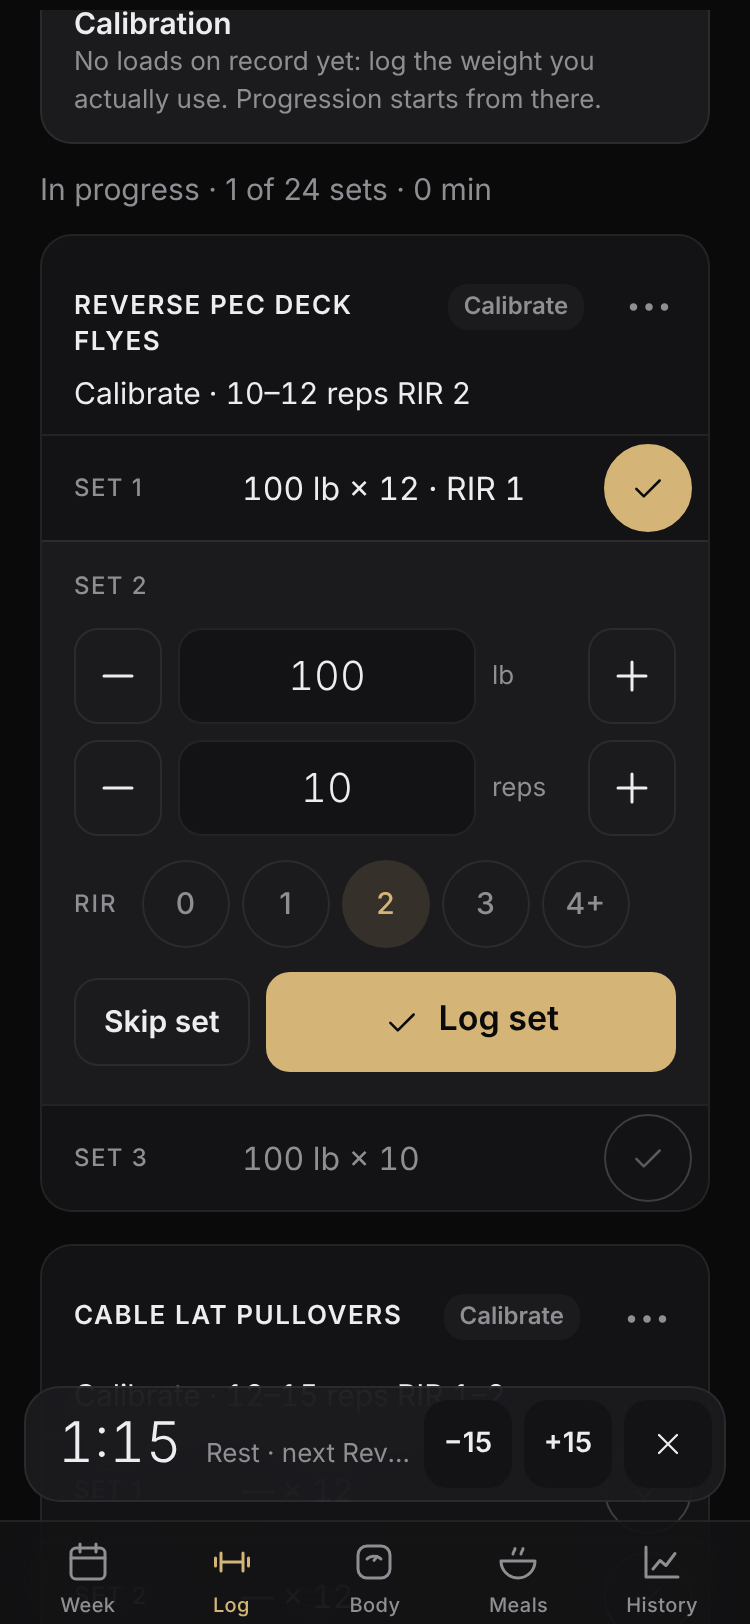
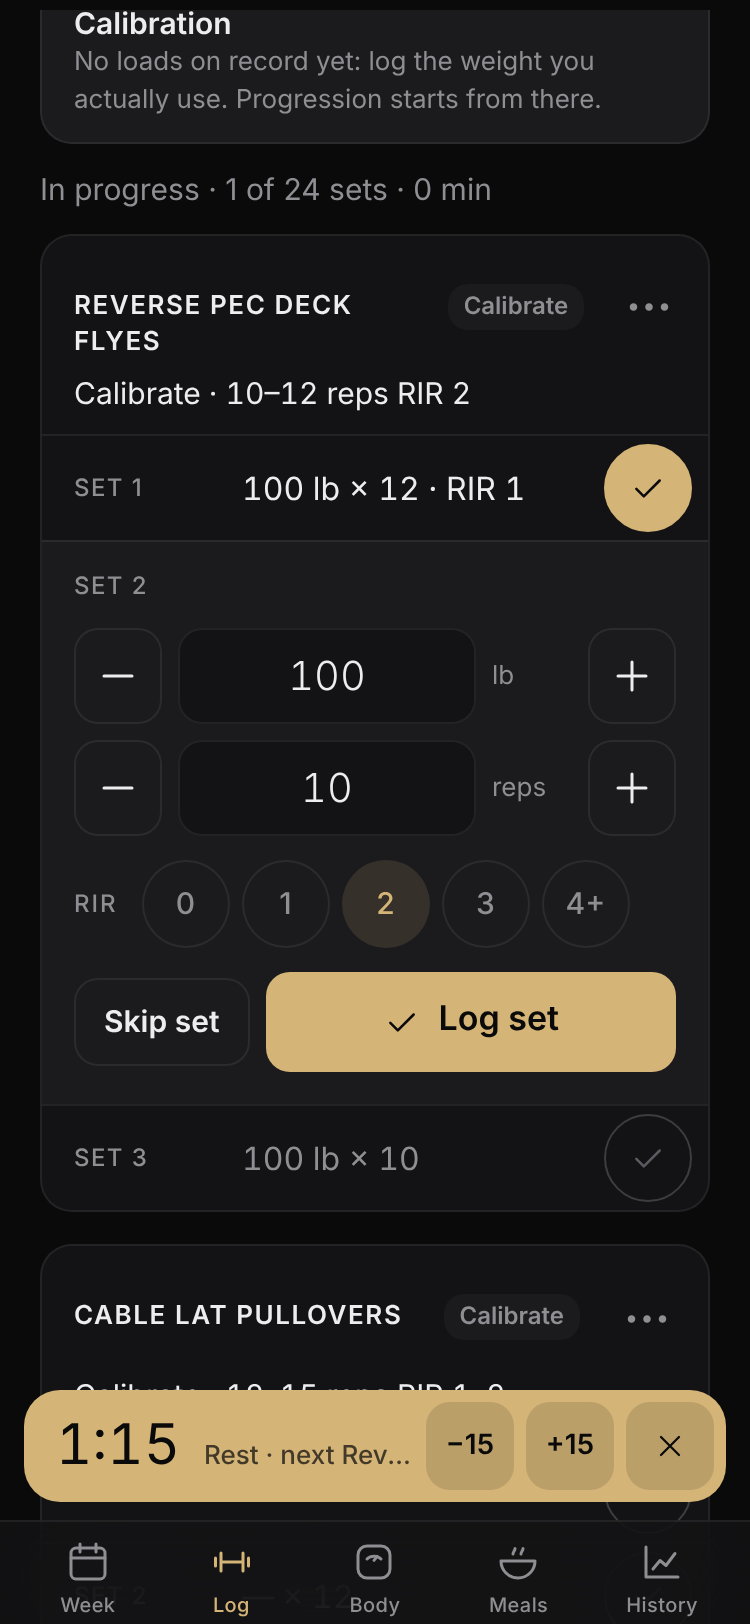
Rest timer: solid gold bar with dark text (0.3.1)
Walter asked for the rest timer to stand out against the dark app
background, so the pill is now filled with the accent colour, with dark
time, label and buttons.

Claude-Session: https://claude.ai/code/session_0124SxiPomaH4urvYjceAnmx

Changed region(s): [[0.0307, 0.8313, 0.9813, 0.9236]]

diff --git a/app/styles.css b/app/styles.css
@@ -536,20 +536,20 @@ textarea.input { min-height: 88px; padding: 12px 14px; resize: vertical; line-he
   display: flex; align-items: center; gap: 6px;
   padding: 6px 6px 6px 16px;
   border-radius: 18px;
-  background: rgba(27, 27, 30, 0.92);
-  -webkit-backdrop-filter: blur(20px); backdrop-filter: blur(20px);
-  border: 1px solid var(--hairline);
+  /* Solid accent so the timer stands out from everything else (Walter's request). */
+  background: var(--accent);
+  color: var(--bg);
   transform: translateY(16px); opacity: 0; pointer-events: none;
-  transition: transform var(--dur) var(--ease), opacity var(--dur) var(--ease), border-color var(--dur) var(--ease);
+  transition: transform var(--dur) var(--ease), opacity var(--dur) var(--ease);
 }
 .rest.show { transform: none; opacity: 1; pointer-events: auto; }
-.rest.done { border-color: rgba(212, 180, 119, 0.6); }
+.rest.done { animation: pop 200ms var(--ease); }
 .rest-main { flex: 1 1 auto; min-width: 0; display: flex; align-items: baseline; gap: 10px; }
-.rest-time { font-size: 28px; font-weight: 300; min-width: 64px; }
-.rest.done .rest-time { color: var(--accent); }
-.rest-label { font-size: 13px; color: var(--text-2); white-space: nowrap; overflow: hidden; text-overflow: ellipsis; }
-.rest-btn { min-width: 44px; height: 44px; border-radius: 12px; border: 0; background: var(--surface-1); color: var(--text); font-size: 14px; font-weight: 600; display: inline-flex; align-items: center; justify-content: center; cursor: pointer; }
-.rest-btn:active { background: var(--accent-dim); }
+.rest-time { font-size: 28px; font-weight: 400; min-width: 64px; color: var(--bg); }
+.rest.done .rest-time { font-weight: 600; }
+.rest-label { font-size: 13px; font-weight: 500; color: rgba(10, 10, 11, 0.72); white-space: nowrap; overflow: hidden; text-overflow: ellipsis; }
+.rest-btn { min-width: 44px; height: 44px; border-radius: 12px; border: 0; background: rgba(10, 10, 11, 0.12); color: var(--bg); font-size: 14px; font-weight: 600; display: inline-flex; align-items: center; justify-content: center; cursor: pointer; }
+.rest-btn:active { background: rgba(10, 10, 11, 0.24); }
 
 /* ---- Log tab: exercise cards and fast set logging ---------------------------------- */
 

diff --git a/sw.js b/sw.js
@@ -6,7 +6,7 @@
 //   when the app posts SKIP_WAITING after Walter taps "Update available, reload".
 
 // Bump together with APP_VERSION in app/version.js on every release (a test checks).
-const CACHE_VERSION = '0.3.0';
+const CACHE_VERSION = '0.3.1';
 const SHELL_CACHE = `wmcoach-shell-${CACHE_VERSION}`;
 const DATA_CACHE = 'wmcoach-data';
 const NETWORK_FIRST = ['data/plan/', 'data/targets/'];

diff --git a/app/version.js b/app/version.js
@@ -1,2 +1,2 @@
 // Bump on every release, together with CACHE_VERSION in sw.js (a test checks they match).
-export const APP_VERSION = '0.3.0';
+export const APP_VERSION = '0.3.1';
